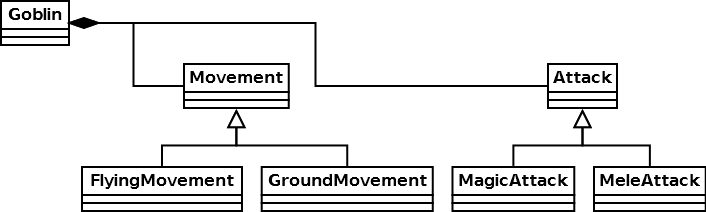
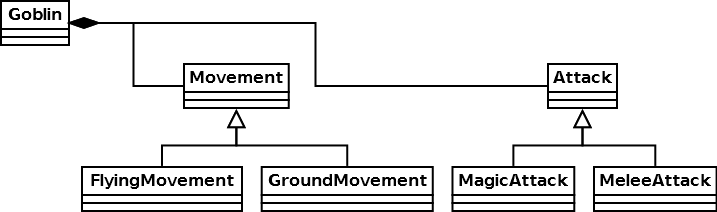
Fixes typos.

diff --git a/_posts/2014-03-27-ecm-critique.md b/_posts/2014-03-27-ecm-critique.md
@@ -33,7 +33,7 @@ have the [dreaded diamond][4] and virtual inheritance to solve. But most
 languages do simply not support a concise way to implement it. 
 
 When solving the issue with components, the components GroundMovement, FlyingMovment,
-MeleAttack and MagicAttack are created and the different types of goblins are
+MeleeAttack and MagicAttack are created and the different types of goblins are
 composed from these. 
 
 <img class="img-responsive" src="/images/ecm/flying-magic-goblin.png" alt="Flying magic goblins are just a figment of your imagination." />
@@ -80,7 +80,7 @@ the systems just look for appropriately named properties? Now you have duck typi
 
 <img class="img-responsive" src="/images/ecm/duck-typing.png" alt="If walks like a duck and quacks like a duck..." />
 
-Duck typing is a concept that is used allot in weakly typed languages, like 
+Duck typing is a concept that is used a lot in weakly typed languages, like 
 for example JavaScript or Python. The main idea here is that the actual type 
 if irrelevant, but specific properties and function are expected on a given
 object within a specific context. For example it is irrelevant if it is a 
